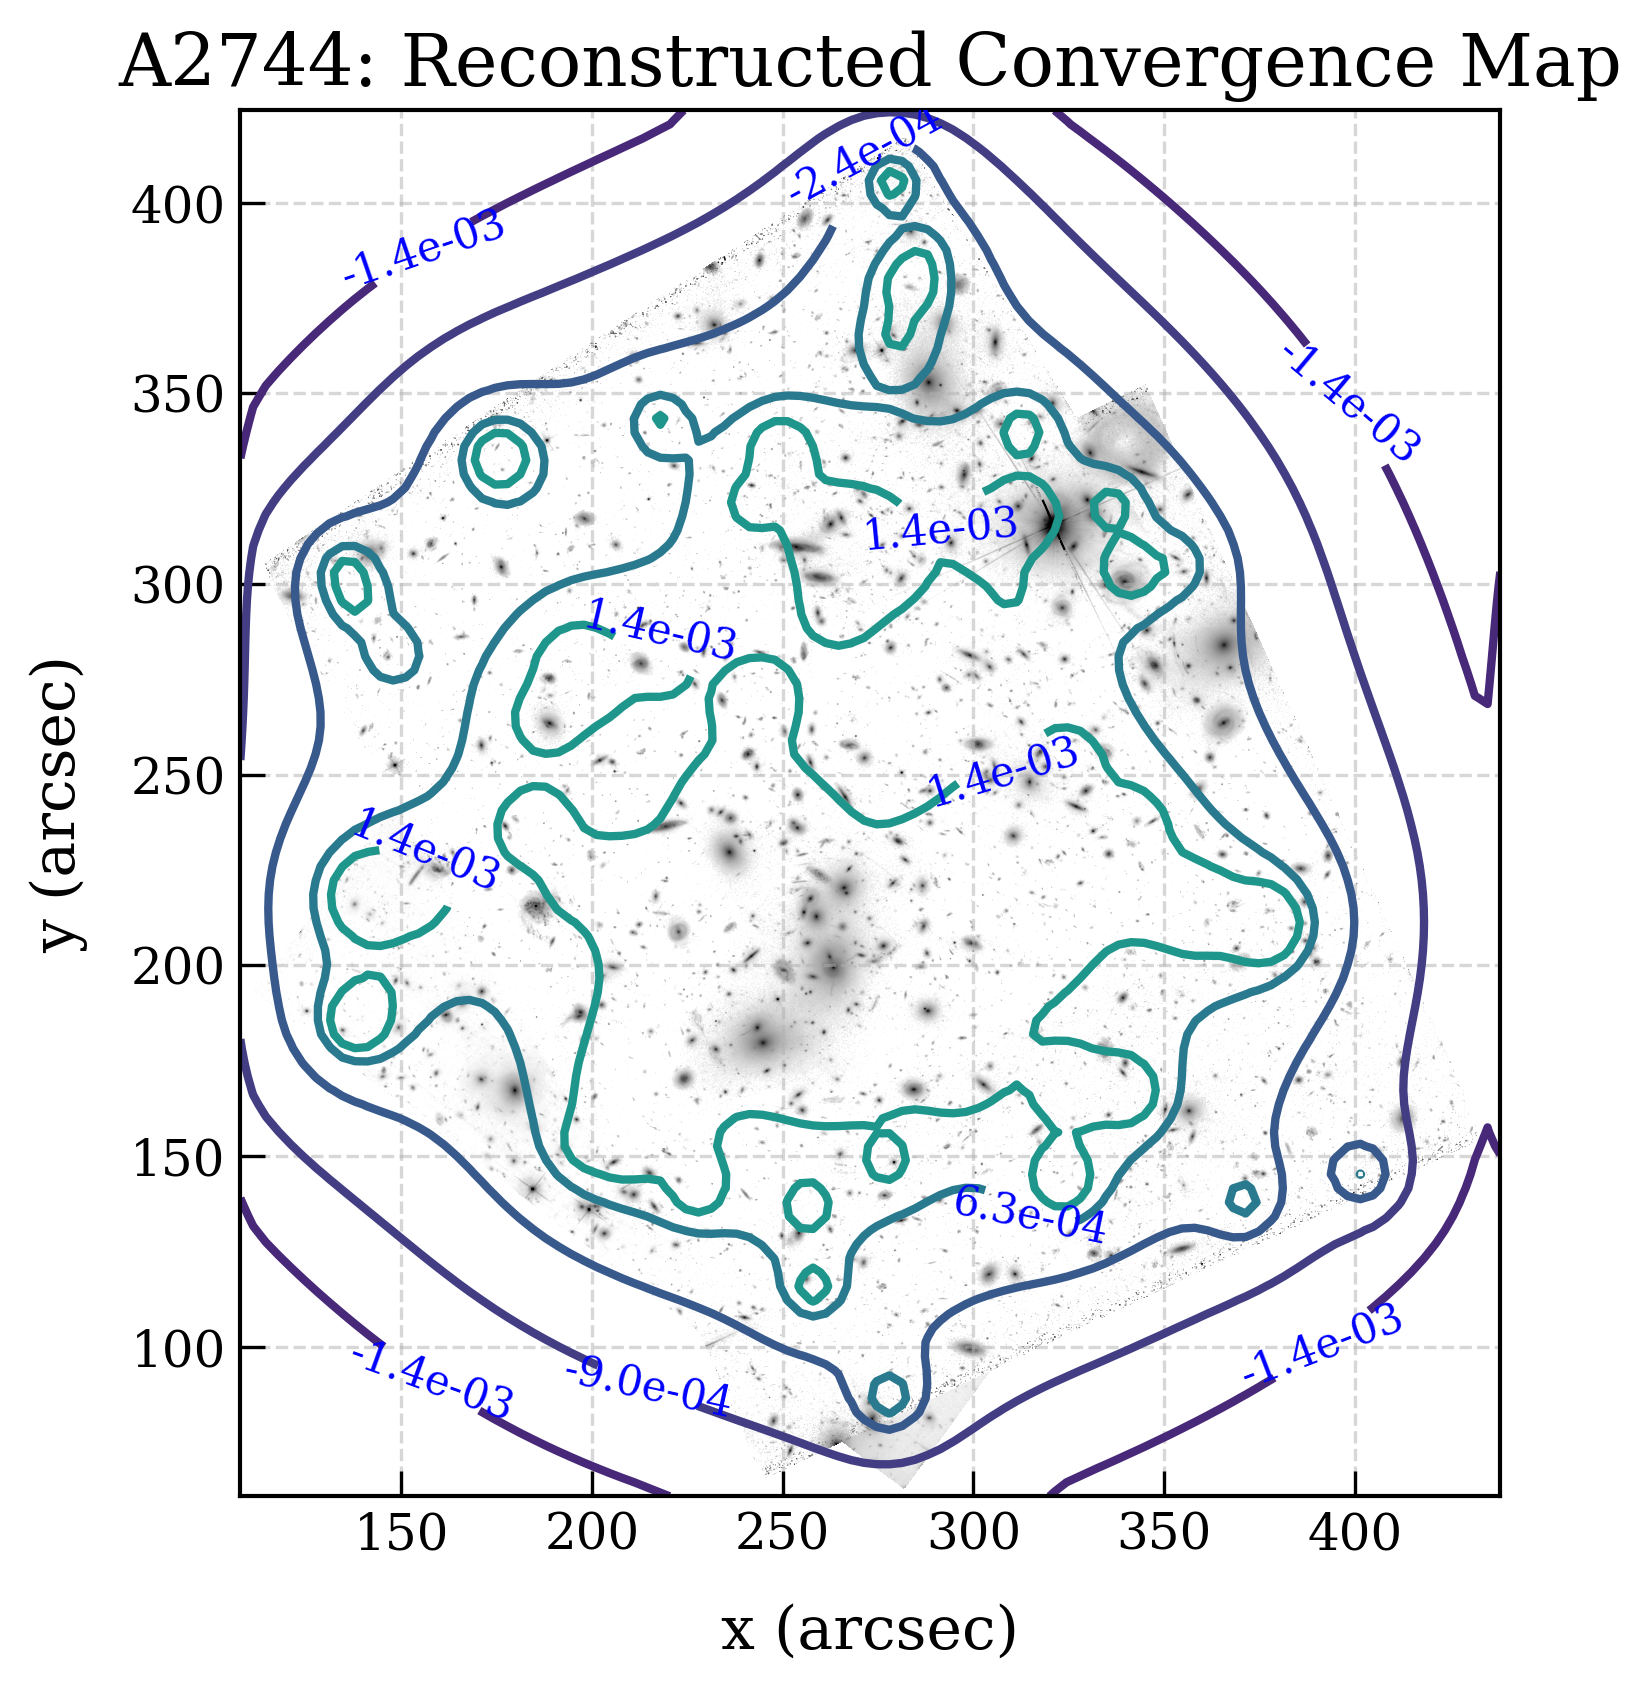
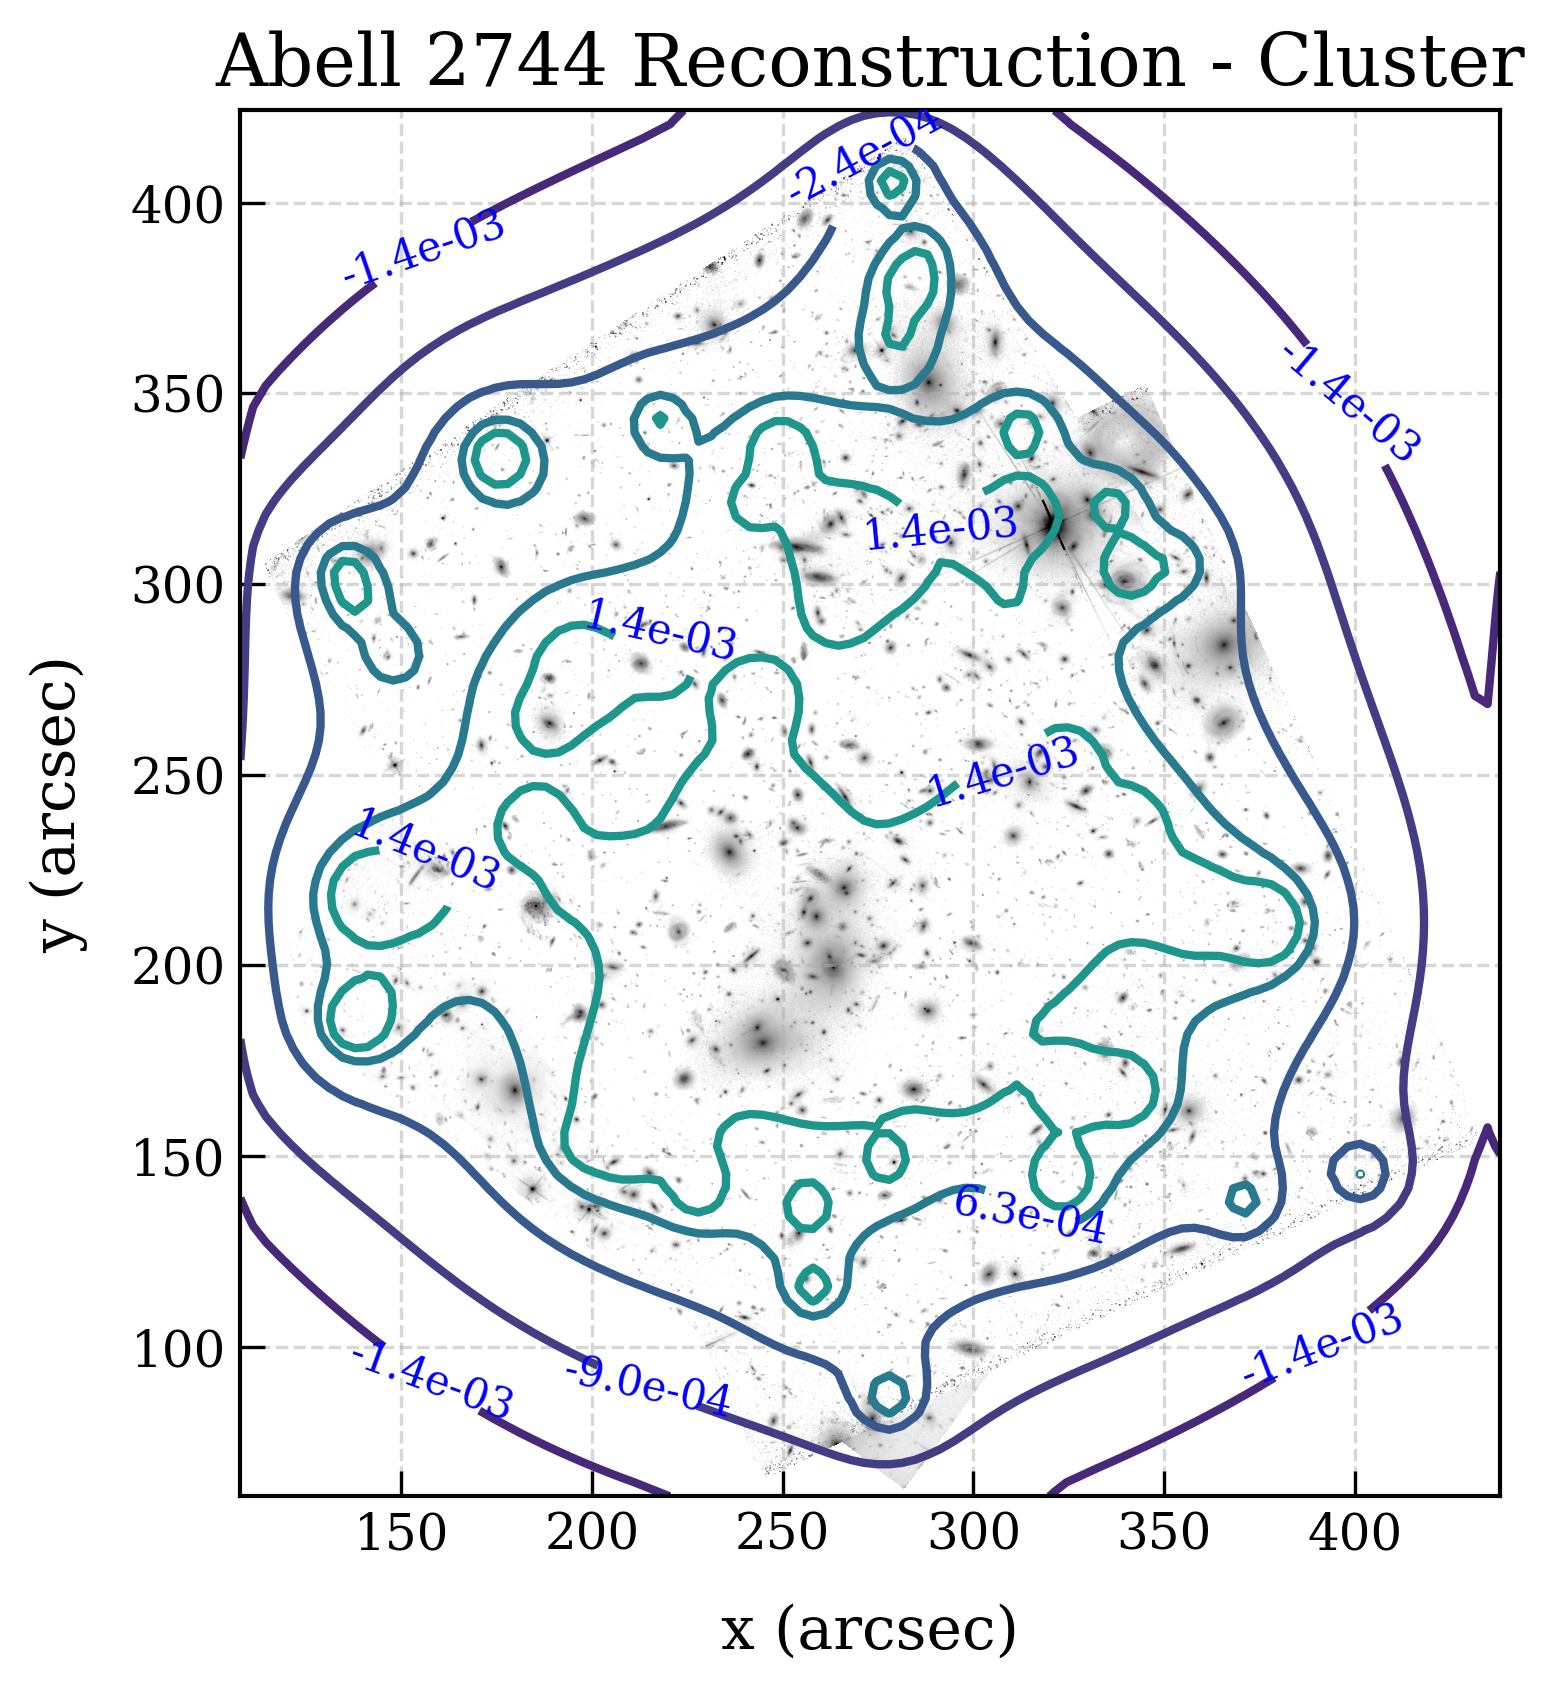
Removed unnecessary images - cleaned testing code

diff --git a/test_pipeline.py b/test_pipeline.py
@@ -75,8 +75,38 @@ def plot_random_realizations(xsol, ysol, er, true_lenses, Nlens, Nsource, Ntrial
 
     fig.suptitle(f'Random Realization Test \n {Nlens} lenses, {Nsource} sources \n {Ntrials} trials')
     plt.tight_layout(rect=[0, 0.03, 1, 0.95])
-    plt.savefig(f'Images//rand_real//rr_testIE_{Nlens}_lens_{Nsource}_source_{Ntrials}.png')
+    plt.savefig(f'Images//rand_real//rr_test_{Nlens}_lens_{Nsource}_source_{Ntrials}.png')
     plt.close()
+
+
+def plot_cluster(img_data, X, Y, conv, lenses, sources, extent, dir, file_name, title, legend=True):
+    # Plotting function to overlay lensing reconstruction - in the form of lenses or convergence contours, 
+    # ontop of an optical image of the cluster
+    fig, ax = plt.subplots()
+    ax.set_xlabel('x (arcsec)')
+    ax.set_ylabel('y (arcsec)')
+    ax.set_title(title)
+    for img in img_data:
+        # Allow for multiple images to be overlayed - allows for band or epoch stacking
+        norm = ImageNormalize(img, vmin=0, vmax=1, stretch=LogStretch())
+        ax.imshow(img, cmap='gray_r', origin='lower', extent=extent, norm=norm)
+
+    if conv is not None:
+        percentiles = np.percentile(conv, np.linspace(0, 100, 7))
+        contours = ax.contour(X, Y, conv, levels=percentiles, cmap='viridis', linestyles='solid') # plot contours
+        ax.clabel(contours, inline=True, fontsize=10, fmt='%2.1e', colors='blue')
+
+    if lenses is not None:
+        ax.scatter(lenses.x, lenses.y, color='red', label='Recovered Lenses')
+        for i, eR in enumerate(lenses.te):
+            ax.annotate(np.round(eR, 2), (lenses.x[i], lenses.y[i]))
+    if sources is not None:
+        ax.scatter(sources.x, sources.y, marker='.', color='blue', alpha=0.5, label='Sources')
+
+    if legend:
+        ax.legend()
+    plt.savefig(dir + file_name + '.png')
+    plt.show()
 
 
 def get_img_data(fits_file_path) -> np.ndarray:
@@ -233,6 +263,11 @@ def generate_random_realizations(Ntrials, Nlens=1, Nsource=1, xmax=10, sigf=0.01
 
 
 def assess_number_recovered(Nlens, Nsource, xmax, sigf=0.01, sigs=0.1, lens_random=False, source_random=True):
+    '''
+    This runs a simple test of the algorithm, and returns the number of lenses recovered.
+    Use this to determine whether the algorithm is able to recover the correct number of lenses when 
+    the number of lenses is not known a priori by the algorithm.
+    '''
     # Initialize true lens and source configurations
     lenses = pipeline.createLenses(nlens=Nlens, randompos=lens_random, xmax=xmax)
     sources = pipeline.createSources(lenses, ns=Nsource, sigf=sigf, sigs=sigs, randompos=source_random, xmax=xmax)
@@ -247,7 +282,7 @@ def assess_number_recovered(Nlens, Nsource, xmax, sigf=0.01, sigs=0.1, lens_rand
     return num_recovered
 
 
-def reconstruct_system(file, flags=False, rand = False):
+def reconstruct_system(file, flags=False, randomize = False):
     # Take in a file of sources and reconstruct the lensing system
 
     # Read in the data (csv)
@@ -293,7 +328,7 @@ def reconstruct_system(file, flags=False, rand = False):
     sigaf = np.mean([np.std(a*f1), np.std(a*f2)])
     sigf = sigaf / a 
 
-    if rand:
+    if randomize:
         # randomize the e1, e2 and f1, f2 vectors by rotating them by a random angle
         rand_angle = np.random.uniform(0, 2*np.pi, len(e1))
         e1, e2 = e1 * np.cos(2*rand_angle) - e2 * np.sin(2*rand_angle), e1 * np.sin(2*rand_angle) + e2 * np.cos(2*rand_angle)
@@ -356,28 +391,38 @@ def overlay_real_img(image_path:str, ax, conv:np.ndarray, nlevels:int=7) -> None
     return None
 
 
-def plot_a2774_field():
-    fits_file_path = 'Data/color_hlsp_frontier_hst_acs-30mas_abell2744_f814w_v1.0-epoch2_f606w_v1.0_f435w_v1.0_drz_sci.fits'
-    csv_file_path = 'a2744_clu_lenser.csv'
+def plot_a2774_field(field='cluster', randomize=False, full_reconstruction=False):
+    # Handler function that will run pipeline on A2744 cluster or parallel field data
+    # and plot the results
+    warnings.filterwarnings("ignore", category=RuntimeWarning) # Beginning of pipeline will generate expected RuntimeWarnings
+
+    if field == 'cluster':
+        fits_file_path = 'Data/color_hlsp_frontier_hst_acs-30mas_abell2744_f814w_v1.0-epoch2_f606w_v1.0_f435w_v1.0_drz_sci.fits'
+        csv_file_path = 'a2744_clu_lenser.csv'
+    elif field == 'parallel':
+        fits_file_path = 'Data/hlsp_frontier_hst_acs-30mas-selfcal_abell2744-hffpar_f435w_v1.0_drz.fits'
+        csv_file_path = 'a2744_par_lenser.csv'
 
     img_data, _ = get_img_data(fits_file_path)
-    # This image data is 3D - choose the first layer
-    img_data1 = img_data[0, :, :]
-    img_data2 = img_data[1, :, :]
-    coords = get_coords(csv_file_path, coord_type='pixels')
+    if field == 'cluster':
+        img_data = [img_data[0], img_data[1]] # Stack the two epochs
+    elif field == 'parallel':
+        img_data = [img_data]
 
-    warnings.filterwarnings("ignore", category=RuntimeWarning)
+    if full_reconstruction:
+        lenses, sources, _, _ = reconstruct_system(csv_file_path, flags=True, randomize=randomize)
 
-    # lenses, sources, xmax, chi2 = reconstruct_system(csv_file_path, flags=True, rand=False)
-
-    # Save the class objects so that we can replot without having to rerun the code
-    # np.save('Data//a2744_lenses', np.array([lenses.x, lenses.y, lenses.te, lenses.chi2]))
-    # np.save('Data//a2744_sources', np.array([sources.x, sources.y, sources.e1, sources.e2, sources.f1, sources.f2, sources.sigs, sources.sigf]))
-
-    # Put code here for loading our saved class objects
-    lenses = pipeline.Lens(*np.load('Data//a2744_lenses.npy'))
-    sources = pipeline.Source(*np.load('Data//a2744_sources.npy'))
-    #chi2 = lenses.update_chi2_values(sources)
+        # Save the class objects so that we can replot without having to rerun the code
+        dir = 'Data//'
+        file_name = 'a2744' + '_par' if field == 'parallel' else '_clu' + '_rand' if randomize else ''
+        np.save(dir + file_name + '_lenses', np.array([lenses.x, lenses.y, lenses.te, lenses.chi2]))
+        np.save(dir + file_name + '_sources', np.array([sources.x, sources.y, sources.e1, sources.e2, sources.f1, sources.f2, sources.sigs, sources.sigf]))
+    else:
+        # Put code here for loading our saved class objects
+        dir = 'Data//'
+        file_name = 'a2744' + '_par' if field == 'parallel' else '_clu' + '_rand' if randomize else ''
+        lenses = pipeline.Lens(*np.load(dir + file_name + '_lenses'))
+        sources = pipeline.Source(*np.load(dir + file_name + '_sources'))
 
     # Generate a convergence map of the lensing field, spanning the range of the sources
     x = np.linspace(min(sources.x)-20, max(sources.x)+20, 100)
@@ -398,91 +443,14 @@ def plot_a2774_field():
     kappa = mass_sheet(kappa, (1-np.mean(kappa))**-1) # Set the mean kappa to 0
 
     # Let's also smooth the convergence map - we don't expect to recover information on small scales
-    # Lets set a minimum length - equal to the average distance between sources
-    min_length = np.mean(np.sqrt((sources.x[1:] - sources.x[:-1])**2 + (sources.y[1:] - sources.y[:-1])**2))
-    # We'll use a gaussian kernel with a standard deviation of 1/10th of the minimum length
-    sigma = min_length / 10
     kernel = create_gaussian_kernel(100, 1) # For now, lets smooth on the scale of a single pixel
     kappa = convolve_image(kappa, kernel)
 
-
-    fig, ax = plt.subplots()
-    ax.set_xlabel('x (arcsec)')
-    ax.set_ylabel('y (arcsec)')
-    ax.set_title('A2744: Reconstructed Convergence Map')
-    norm = ImageNormalize(img_data1, vmin=0, vmax=1, stretch=LogStretch())
-    ax.imshow(img_data1, cmap='gray_r', origin='lower', norm=norm, extent=extent)
-    ax.imshow(img_data2, cmap='gray_r', origin='lower', norm=norm, extent=extent)
-    #ax.scatter(x_pix, y_pix, s=2, c='r', label = 'Catalogue Objects', alpha=0.25)
-    percentiles = np.percentile(kappa, np.linspace(0, 100, 7))
-
-    contours = ax.contour(X, Y, kappa, levels=percentiles, cmap='viridis', linestyles='solid') # plot contours
-    ax.clabel(contours, inline=True, fontsize=10, fmt='%2.1e', colors='blue')
-
-    plt.savefig('Images//abel//a2744_kappa_clu.png')
-
-    plt.show()
+    # Plot the convergence map
+    dir = 'Images//abel//'
+    file_name = 'A2744_kappa' + '_par' if field == 'parallel' else 'A2744_kappa_clu' + '_rand' if randomize else ''
+    plot_cluster(img_data, X, Y, kappa, None, None, extent, dir, file_name, 'Abell 2744 Reconstruction - Cluster', legend=False)
 
 
 if __name__ == '__main__':
-    plot_a2774_field()
-    raise SystemExit
-
-    # Abell 2744 cluster
-    # fits_file_path = 'Data/color_hlsp_frontier_hst_acs-30mas_abell2744_f814w_v1.0-epoch2_f606w_v1.0_f435w_v1.0_drz_sci.fits'
-    # csv_file_path = 'a2744_clu_lenser.csv'
-
-    # Abell 2744 parallel
-    fits_file_path = 'Data\hlsp_frontier_hst_acs-30mas-selfcal_abell2744-hffpar_f435w_v1.0_drz.fits'
-    csv_file_path = 'a2744_par_lenser.csv'
-
-    img_data, header = get_img_data(fits_file_path)
-    # This image data is 3D - choose the first layer
-    coords = get_coords(csv_file_path, coord_type='pixels')
-    x_pix = coords[:, 0] + 865
-    y_pix = coords[:, 1] + 400
-
-
-    # raise SystemExit
-
-    warnings.filterwarnings("ignore", category=RuntimeWarning)
-
-    lenses, sources, xmax, chi2 = reconstruct_system(csv_file_path, flags=True, rand=False)
-
-    '''
-    # Save the class objects so that we can replot without having to rerun the code
-    # np.save('Data//a2744_lenses', np.array([lenses.x, lenses.y, lenses.te, lenses.chi2]))
-    # np.save('Data//a2744_sources', np.array([sources.x, sources.y, sources.e1, sources.e2, sources.f1, sources.f2, sources.sigs, sources.sigf]))
-
-    # Put code here for loading our saved class objects
-    # lenses = pipeline.Lens(*np.load('Data//a2744_lenses.npy'))
-    #sources = pipeline.Source(*np.load('Data//a2744_sources.npy'))
-    #chi2 = lenses.update_chi2_values(sources)
-    '''
-
-    # Generate a convergence map of the lensing field, spanning the range of the sources
-    x = np.linspace(min(sources.x)-20, max(sources.x)+20, 100)
-    y = np.linspace(min(sources.y)-20, max(sources.y)+20, 100)
-
-    extent = [min(x), max(x), min(y), max(y)]
-
-    X, Y = np.meshgrid(x, y)
-    kappa = np.zeros_like(X)
-    for k in range(len(lenses.x)):
-        r = np.sqrt((X - lenses.x[k])**2 + (Y - lenses.y[k])**2 + (0.5)**2)
-        kappa += lenses.te[k] / (2 * r)
-
-    fig, ax = plt.subplots(figsize=(10, 10))
-    ax.set_xlabel('x (arcsec)')
-    ax.set_ylabel('y (arcsec)')
-    ax.set_title('A2744 Parallel Field: Reconstructed Convergence Map')
-    # ax.scatter(x_pix, y_pix, s=2, c='r', label = 'Catalogue Objects', alpha=0.5)
-    levels = np.linspace(np.min(kappa), np.max(kappa), 20)
-    ax.imshow(img_data, cmap='gray_r', origin='lower', extent=extent, norm=ImageNormalize(img_data, vmin=0, vmax=1, stretch=LogStretch()))
-
-    contours = ax.contour(X, Y, kappa, levels, cmap='plasma', linestyles='solid') # plot contours
-    ax.clabel(contours, inline=False, colors='blue') # attaches label to each contour
-
-    plt.savefig('Images//abel//a2744_kappa_par.png')
-
-    plt.show()
+    plot_a2774_field(field='cluster', randomize=True, full_reconstruction=True)
